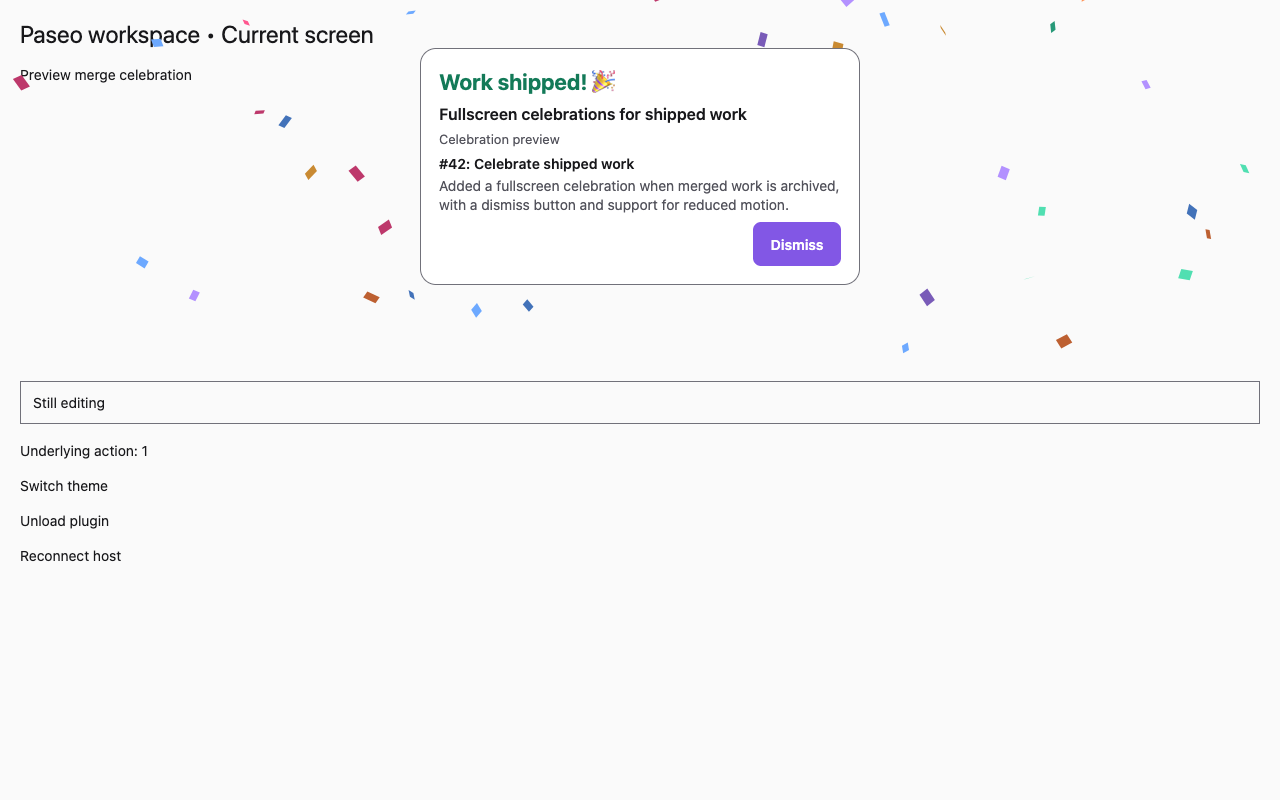
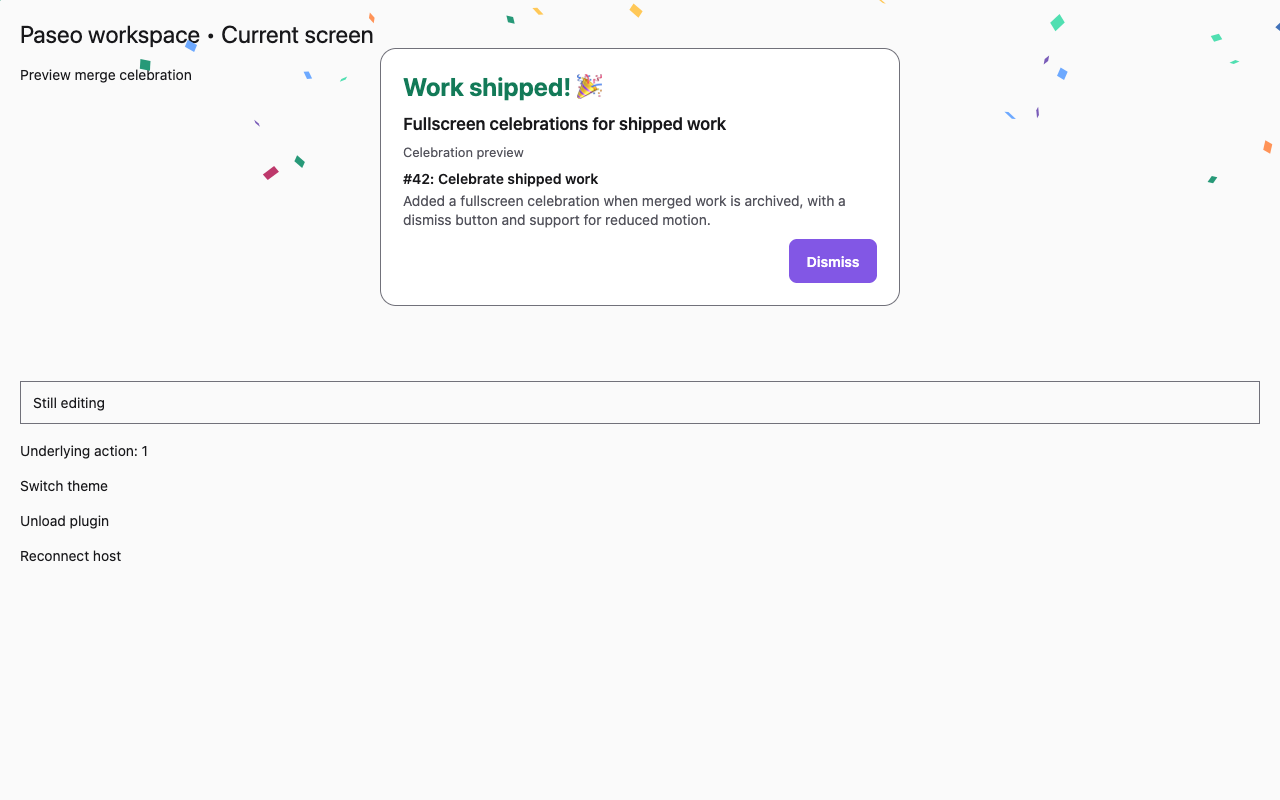
feat: enlarge wide recap card and quicken confetti fall
Give the recap more room and larger type on wide layouts, and raise
gravity and terminal speed so the shower falls faster. Refresh the
preview screenshots.

diff --git a/client/celebration.tsx b/client/celebration.tsx
@@ -70,25 +70,35 @@ export function CelebrationOverlay({
               pointerEvents="box-none"
               style={{
                 width: "100%",
-                maxWidth: 440,
-                maxHeight: height * 0.45,
+                maxWidth: layout.compact ? 440 : 520,
+                maxHeight: height * (layout.compact ? 0.5 : 0.55),
                 backgroundColor: theme.colors.surface1,
                 borderColor: theme.colors.border,
                 borderWidth: 1,
                 borderRadius: 16,
-                padding: 18,
-                gap: 8,
+                padding: layout.compact ? 18 : 22,
+                gap: layout.compact ? 8 : 10,
               }}
             >
-              <View pointerEvents="none" style={{ gap: 8 }}>
+              <View pointerEvents="none" style={{ gap: layout.compact ? 8 : 10 }}>
                 <Text
                   accessibilityRole="header"
                   accessibilityLiveRegion="polite"
-                  style={{ color: theme.colors.statusSuccess, fontSize: 22, fontWeight: "700" }}
+                  style={{
+                    color: theme.colors.statusSuccess,
+                    fontSize: layout.compact ? 22 : 25,
+                    fontWeight: "700",
+                  }}
                 >
                   Work shipped! 🎉
                 </Text>
-                <Text style={{ color: theme.colors.foreground, fontSize: 16, fontWeight: "600" }}>
+                <Text
+                  style={{
+                    color: theme.colors.foreground,
+                    fontSize: layout.compact ? 16 : 17,
+                    fontWeight: "600",
+                  }}
+                >
                   {event.title}
                 </Text>
                 <Text style={{ color: theme.colors.foregroundMuted, fontSize: 13 }}>

diff --git a/client/confetti-physics.ts b/client/confetti-physics.ts
@@ -61,8 +61,8 @@ export function createConfetti(initialWidth: number, initialHeight: number, rand
       tumble: between(2.5, 6) * (random() < 0.5 ? -1 : 1),
       phase: between(0, Math.PI * 2),
       flutter: between(2, 5),
-      gravity: between(420, 620),
-      terminalSpeed: between(150, 230) + paperWidth * 3,
+      gravity: between(520, 740),
+      terminalSpeed: between(185, 275) + paperWidth * 3,
       age: 0,
       color: colors[0],
       backColor: colors[1],
@@ -72,7 +72,7 @@ export function createConfetti(initialWidth: number, initialHeight: number, rand
     time += STEP;
     if (emitting) {
       // Reserve capacity for the longest fall, so tall windows never saturate into bursts.
-      const transitSeconds = (height + 80) / 145 + 0.7;
+      const transitSeconds = (height + 80) / 180 + 0.6;
       const rate = Math.min(
         Math.max(14, Math.min(45, width / 34)),
         (MAX_PARTICLES * 0.85) / transitSeconds,
